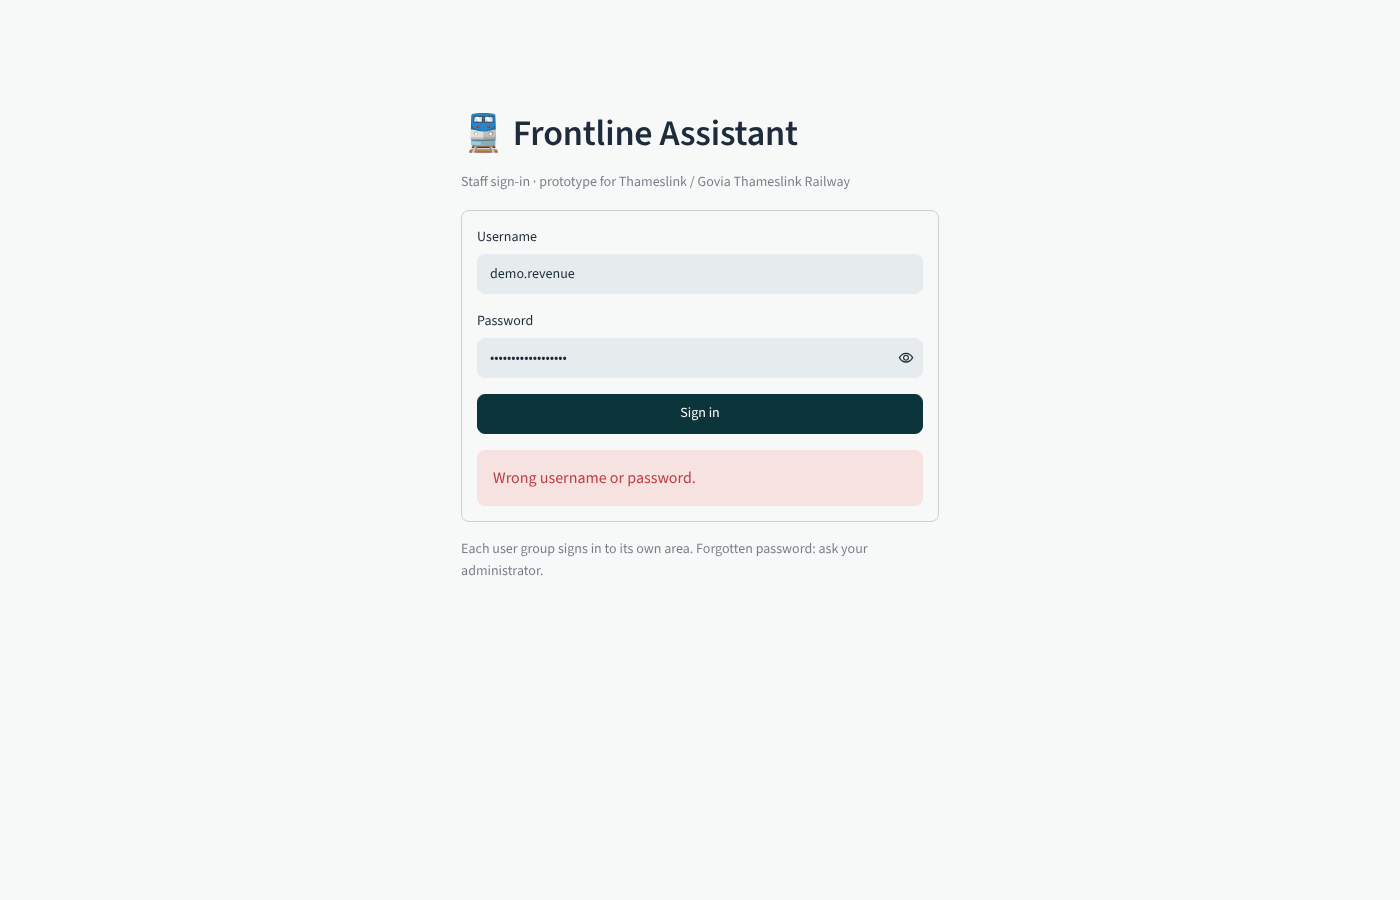
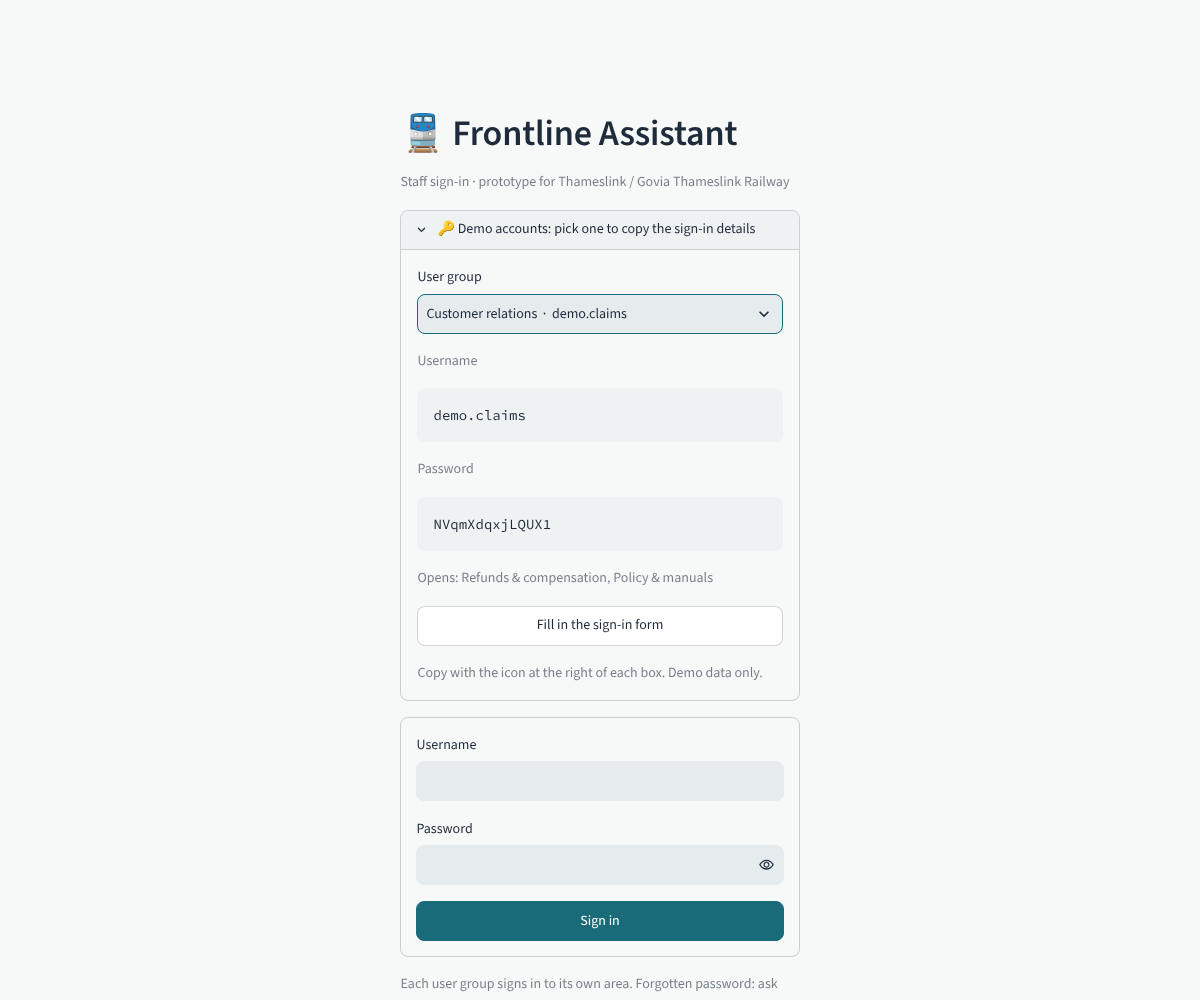
Add demo accounts dropdown to the sign-in page
- Sign-in page lists the demo accounts in a dropdown with copyable username
  and password, plus a button that fills in the sign-in form
- python -m rag.auth demo saves demo passwords to demo_credentials.json
  (gitignored); --reset gives the demo accounts new passwords
- Demo passwords can't be changed from the app; an admin reset or disabling
  an account removes it from the list; DEMO_LOGINS=0 hides the list
- scripts/download_documents.py fetches the four public PDFs
- 4 new tests (45 in total)

Claude-Session: https://claude.ai/code/session_01NtGLW7WCbcBZ2Sm6Mgj36T

diff --git a/rag/auth.py b/rag/auth.py
@@ -9,7 +9,8 @@ Accounts live in data/users.json on the server. Create them from the command lin
 
     python -m rag.auth create-admin itlead
     python -m rag.auth add jsmith --role revenue --name "Jo Smith"
-    python -m rag.auth demo            # one account per role, random passwords printed once
+    python -m rag.auth demo            # one account per role; passwords shown on the sign-in page
+    python -m rag.auth demo --reset    # new passwords for the existing demo accounts
     python -m rag.auth list
 
 For production, the README describes connecting to Thameslink's single sign-on instead.
@@ -35,6 +36,9 @@ from . import config
 
 USERS_FILE = config.STATE_DIR / "users.json"
 AUDIT_FILE = config.STATE_DIR / "audit.jsonl"
+# Plain-text passwords of the DEMO accounts only, so the sign-in page can list them for testers.
+# Never committed (see .gitignore). Delete this file, or set DEMO_LOGINS=0, to hide the list.
+DEMO_FILE = config.STATE_DIR / "demo_credentials.json"
 
 MAX_FAILS = 5
 LOCK_SECONDS = 15 * 60
@@ -193,6 +197,8 @@ def authenticate(username: str, password: str) -> User:
 
 
 def change_password(username: str, old: str, new: str) -> None:
+    if is_demo(username):
+        raise AuthError("Demo accounts are shared, so their password can't be changed here.")
     with _lock:
         users = load_users()
         user = users[username]
@@ -243,6 +249,7 @@ def reset_password(username: str, by: str = "") -> str:
         user.salt, user.pw_hash = hash_password(password)
         user.must_change, user.fails, user.locked_until = True, 0, 0.0
         save_users(users)
+    forget_demo(username)
     audit("password_reset", username, by=by)
     return password
 
@@ -276,6 +283,86 @@ def get_user(username: str) -> User | None:
     return load_users().get(username)
 
 
+# ---------------------------------------------------------------- demo accounts
+def demo_logins() -> list[dict]:
+    """Demo accounts to list on the sign-in page: [{username, password, role, name}], active ones only."""
+    if os.getenv("DEMO_LOGINS", "1").strip().lower() in ("0", "false", "no", "off") or not DEMO_FILE.exists():
+        return []
+    try:
+        saved = json.loads(DEMO_FILE.read_text(encoding="utf-8"))
+    except (OSError, ValueError):
+        return []
+    users = load_users()
+    out = []
+    for username, password in saved.items():
+        u = users.get(username)
+        if u and u.active:
+            out.append({"username": username, "password": password, "role": u.role, "name": ROLES[u.role]["name"]})
+    order = list(ROLES)
+    return sorted(out, key=lambda d: order.index(d["role"]) if d["role"] in order else 99)
+
+
+def _save_demo(saved: dict[str, str]) -> None:
+    DEMO_FILE.parent.mkdir(parents=True, exist_ok=True)
+    if not saved:
+        DEMO_FILE.unlink(missing_ok=True)
+        return
+    tmp = DEMO_FILE.with_suffix(".tmp")
+    tmp.write_text(json.dumps(saved, indent=1), encoding="utf-8")
+    os.replace(tmp, DEMO_FILE)
+    try:
+        os.chmod(DEMO_FILE, 0o600)
+    except OSError:
+        pass
+
+
+def _load_demo() -> dict[str, str]:
+    try:
+        return json.loads(DEMO_FILE.read_text(encoding="utf-8")) if DEMO_FILE.exists() else {}
+    except (OSError, ValueError):
+        return {}
+
+
+def is_demo(username: str) -> bool:
+    return username in _load_demo()
+
+
+def forget_demo(username: str) -> None:
+    """Stop listing an account on the sign-in page (its password is no longer the published one)."""
+    with _lock:
+        saved = _load_demo()
+        if saved.pop(username, None) is not None:
+            _save_demo(saved)
+
+
+def create_demo_accounts(reset: bool = False) -> list[tuple[str, str, str]]:
+    """One demo account per role. Returns (username, password or '', status) per role."""
+    results = []
+    with _lock:
+        saved = _load_demo()
+        for role, info in ROLES.items():
+            username = f"demo.{role}"
+            if username in load_users():
+                if not reset:
+                    results.append((username, saved.get(username, ""), "exists"))
+                    continue
+                pw = generate_password()
+                users = load_users()
+                u = users[username]
+                u.salt, u.pw_hash = hash_password(pw)
+                u.must_change, u.fails, u.locked_until, u.active = False, 0, 0.0, True
+                save_users(users)
+                audit("password_reset", username, by="cli", detail="demo")
+                status = "new password"
+            else:
+                pw = create_user(username, f"Demo {info['name']}", role, by="cli", must_change=False)
+                status = "created"
+            saved[username] = pw
+            results.append((username, pw, status))
+        _save_demo(saved)
+    return results
+
+
 # ---------------------------------------------------------------- command line
 def main(argv=None):
     ap = argparse.ArgumentParser(prog="python -m rag.auth", description="Manage Frontline Assistant accounts.")
@@ -290,7 +377,8 @@ def main(argv=None):
     p = sub.add_parser("reset", help="give a user a new temporary password")
     p.add_argument("username")
     sub.add_parser("list", help="list accounts")
-    sub.add_parser("demo", help="create one demo account per role (random passwords, printed once)")
+    p = sub.add_parser("demo", help="create one demo account per role (passwords listed on the sign-in page)")
+    p.add_argument("--reset", action="store_true", help="give the existing demo accounts new passwords")
     args = ap.parse_args(argv)
 
     try:
@@ -311,15 +399,12 @@ def main(argv=None):
                 print(f"{u.username:<16} {ROLES[u.role]['name']:<20} {'active' if u.active else 'DISABLED':<9}"
                       f" last sign-in: {u.last_login or '—'}")
         elif args.cmd == "demo":
-            print("Demo accounts (passwords are shown only now — note them down):\n")
-            for role, info in ROLES.items():
-                username = f"demo.{role}"
-                if username in load_users():
-                    print(f"  {username:<16} already exists (use 'reset' for a new password)")
-                    continue
-                pw = create_user(username, f"Demo {info['name']}", role, by="cli", must_change=False)
-                print(f"  {username:<16} {pw}   {info['name']}")
-            print("\nDelete or disable demo accounts before real use.")
+            print("Demo accounts:\n")
+            for username, pw, status in create_demo_accounts(reset=args.reset):
+                shown = pw or "(password not saved: run with --reset)"
+                print(f"  {username:<16} {shown:<16} {status}")
+            print(f"\nThe sign-in page lists these accounts (saved in {DEMO_FILE}).\n"
+                  "Hide the list with DEMO_LOGINS=0 or by deleting that file. Remove demo accounts before real use.")
     except (AuthError, KeyError) as e:
         sys.exit(f"Error: {e}")
 

diff --git a/scripts/download_documents.py b/scripts/download_documents.py
@@ -1,0 +1,70 @@
+"""Download the four public source documents into data/raw/.
+
+The PDFs are published by Govia Thameslink Railway and Rail Settlement Plan. They are not
+redistributed in this repository, so fetch them from the publishers' websites:
+
+    python scripts/download_documents.py
+    python -m rag.ingest
+
+If a publisher has replaced a document with a newer version, the script still saves it but
+warns you. Then run the tests (python -m pytest -q): the app checks every rule's quoted
+source text against the documents and shows which rules need updating.
+"""
+from __future__ import annotations
+
+import hashlib
+import sys
+import urllib.request
+from pathlib import Path
+
+RAW = Path(__file__).resolve().parent.parent / "data" / "raw"
+GTR = "https://www.thameslinkrailway.com/-/media/gtr/files/accessibility/atp-accessibility-documents"
+
+# file name (as in data/documents.yaml) -> (URL, SHA-256 of the version this project was built and tested with)
+DOCUMENTS = {
+    "National_Rail_Conditions_of_Travel_2025.pdf": (
+        "https://www.southeasternrailway.co.uk/-/media/goahead/southeastern/documents/policies/"
[4 lines of base64/hex data omitted]
+}
+
+
+def fetch(url: str) -> bytes:
+    req = urllib.request.Request(url, headers={"User-Agent": "Mozilla/5.0 (document downloader)"})
+    with urllib.request.urlopen(req, timeout=60) as resp:
+        return resp.read()
+
+
+def main() -> int:
+    RAW.mkdir(parents=True, exist_ok=True)
+    problems = 0
+    for name, (url, expected) in DOCUMENTS.items():
+        target = RAW / name
+        if target.exists() and "--force" not in sys.argv:
+            print(f"  ok        {name} (already downloaded; use --force to fetch again)")
+            continue
+        try:
+            data = fetch(url)
+        except Exception as e:                      # network error, 404, ...
+            print(f"  FAILED    {name}: {e}\n            Download it by hand from {url}\n"
+                  f"            and save it as data/raw/{name}")
+            problems += 1
+            continue
+        if not data.startswith(b"%PDF"):
+            print(f"  FAILED    {name}: the server did not return a PDF. Download it by hand from {url}")
+            problems += 1
+            continue
+        target.write_bytes(data)
+        digest = hashlib.sha256(data).hexdigest()
+        if digest == expected:
+            print(f"  ok        {name}")
+        else:
+            print(f"  NEWER?    {name}: differs from the tested version. Run the tests to check the rules.")
+    print("\nNext: python -m rag.ingest" if not problems else f"\n{problems} document(s) missing (see above).")
+    return 1 if problems else 0
+
+
+if __name__ == "__main__":
+    sys.exit(main())

diff --git a/tests/test_auth.py b/tests/test_auth.py
@@ -15,6 +15,8 @@ from rag.usecases import BY_ID  # noqa: E402
 def isolated(tmp_path, monkeypatch):
     monkeypatch.setattr(auth, "USERS_FILE", tmp_path / "users.json")
     monkeypatch.setattr(auth, "AUDIT_FILE", tmp_path / "audit.jsonl")
+    monkeypatch.setattr(auth, "DEMO_FILE", tmp_path / "demo_credentials.json")
+    monkeypatch.delenv("DEMO_LOGINS", raising=False)
 
 
 def test_password_is_not_stored_in_plain_text(tmp_path):
@@ -89,3 +91,40 @@ def test_audit_log_has_no_passwords():
     text = auth.AUDIT_FILE.read_text()
     assert "river-stone-77" not in text and "typo-stone-77" not in text
     assert [e["event"] for e in auth.read_audit()][:2] == ["login_failed", "login"]
+
+
+def test_demo_accounts_listed_and_usable():
+    assert auth.demo_logins() == []                    # nothing listed until demo accounts exist
+    created = auth.create_demo_accounts()
+    assert len(created) == len(auth.ROLES)
+    listed = auth.demo_logins()
+    assert [d["role"] for d in listed] == list(auth.ROLES)
+    for d in listed:
+        assert auth.authenticate(d["username"], d["password"]).role == d["role"]
+    assert "pw_hash" not in auth.DEMO_FILE.read_text()
+
+
+def test_demo_list_hidden_by_env(monkeypatch):
+    auth.create_demo_accounts()
+    monkeypatch.setenv("DEMO_LOGINS", "0")
+    assert auth.demo_logins() == []
+
+
+def test_demo_reset_gives_new_working_passwords():
+    first = {u: pw for u, pw, _ in auth.create_demo_accounts()}
+    again = auth.create_demo_accounts()                 # without --reset: unchanged
+    assert all(status == "exists" and first[u] == pw for u, pw, status in again)
+    second = {u: pw for u, pw, _ in auth.create_demo_accounts(reset=True)}
+    assert all(first[u] != second[u] for u in first)
+    assert auth.authenticate("demo.claims", second["demo.claims"]).role == "claims"
+
+
+def test_demo_password_cannot_be_changed_and_reset_or_disable_unlists():
+    auth.create_demo_accounts()
+    pw = {d["username"]: d["password"] for d in auth.demo_logins()}
+    with pytest.raises(auth.AuthError, match="Demo accounts"):
+        auth.change_password("demo.revenue", pw["demo.revenue"], "a-new-pass-123")
+    auth.reset_password("demo.revenue", by="demo.admin")
+    auth.update_user("demo.assist", by="demo.admin", active=False)
+    names = {d["username"] for d in auth.demo_logins()}
+    assert "demo.revenue" not in names and "demo.assist" not in names and "demo.claims" in names

diff --git a/app.py b/app.py
@@ -74,6 +74,27 @@ def sign_out(reason: str = ""):
         st.session_state["signout_reason"] = reason
 
 
+def demo_accounts_box():
+    """Dropdown of the demo accounts with copyable username and password (only if demo accounts exist)."""
+    demos = auth.demo_logins()
+    if not demos:
+        return
+    with st.expander("🔑 Demo accounts: pick one to copy the sign-in details"):
+        labels = {f"{d['name']}  ·  {d['username']}": d for d in demos}
+        pick = labels[st.selectbox("User group", list(labels), key="demo_pick")]
+        st.caption("Username")
+        st.code(pick["username"], language=None)
+        st.caption("Password")
+        st.code(pick["password"], language=None)
+        st.caption(f"Opens: {', '.join(BY_ID[u].short for u in auth.ROLES[pick['role']]['use_cases'])}"
+                   + (" and the administration area" if auth.ROLES[pick['role']].get('admin') else ""))
+        if st.button("Fill in the sign-in form", use_container_width=True):
+            st.session_state["login_username"] = pick["username"]
+            st.session_state["login_password"] = pick["password"]
+            st.rerun()
+        st.caption("Copy with the icon at the right of each box. Demo data only.")
+
+
 def login_page():
     _, mid, _ = st.columns([1, 1.3, 1])
     with mid:
@@ -85,9 +106,11 @@ def login_page():
         if not auth.load_users():
             st.warning("No accounts exist yet. IT creates the first administrator on the server with:  \n"
                        "`python -m rag.auth create-admin <username>`")
+        demo_accounts_box()
         with st.form("login"):
-            username = st.text_input("Username", autocomplete="username")
-            password = st.text_input("Password", type="password", autocomplete="current-password")
+            username = st.text_input("Username", autocomplete="username", key="login_username")
+            password = st.text_input("Password", type="password", autocomplete="current-password",
+                                     key="login_password")
             if st.form_submit_button("Sign in", type="primary", use_container_width=True):
                 try:
                     user = auth.authenticate(username, password)

diff --git a/tests/conftest.py b/tests/conftest.py
@@ -1,0 +1,17 @@
+"""Skip the document-based tests when the source PDFs have not been downloaded yet."""
+from pathlib import Path
+
+import pytest
+
+RAW = Path(__file__).resolve().parent.parent / "data" / "raw"
+NEEDED = ["National_Rail_Conditions_of_Travel_2025.pdf", "Accessible_Travel_Policy.pdf", "Making_Rail_Accessible.pdf"]
+
+
+def pytest_collection_modifyitems(config, items):
+    missing = [f for f in NEEDED if not (RAW / f).exists()]
+    if not missing:
+        return
+    skip = pytest.mark.skip(reason="source documents missing: run  python scripts/download_documents.py  first")
+    for item in items:
+        if item.fspath.basename in ("test_pipeline.py", "test_usecases.py"):
+            item.add_marker(skip)

diff --git a/rag/retrieve.py b/rag/retrieve.py
@@ -70,7 +70,8 @@ class Retriever:
     def load(cls) -> "Retriever":
         path = config.INDEX_DIR / "chunks.jsonl"
         if not path.exists():
-            raise FileNotFoundError("No index found. Run:  python -m rag.ingest")
+            raise FileNotFoundError("No search index found. Download the documents and build the index first:  "
+                                    "python scripts/download_documents.py  then  python -m rag.ingest")
         chunks = [json.loads(line) for line in open(path, encoding="utf-8")]
         emb, model = None, None
         epath, mpath = config.INDEX_DIR / "embeddings.npy", config.INDEX_DIR / "embeddings.json"

diff --git a/README.md b/README.md
@@ -98,9 +98,15 @@ python -m venv .venv
 pip install -r requirements.txt
 
 python -m rag.ingest          # read the PDFs and build the search index (~15 s)
-python -m rag.auth demo       # one demo account per user group; passwords are printed once
-streamlit run app.py          # opens http://localhost:8501 — sign in with a demo account
+python -m rag.auth demo       # one demo account per user group
+python -m streamlit run app.py   # opens http://localhost:8501
 ```
+
+The sign-in page has a **Demo accounts** dropdown: pick a user group to see its username and password (with copy buttons), or click **Fill in the sign-in form**. Demo passwords can't be changed from the app, so a shared demo keeps working.
+
+- New demo passwords: `python -m rag.auth demo --reset`
+- Hide the dropdown: set `DEMO_LOGINS=0`, or delete `demo_credentials.json` from the data/state folder
+- If you publish the app online, anyone can use the listed accounts, including `demo.admin` (which can manage users). Disable that account in the admin area if you don't want visitors to have it. Before any real use, remove all demo accounts.
 
 Without a language model the app runs in **"quote documents only"** mode: it finds the right passages and shows the most relevant sentences with citations. This is also the search-only baseline for the evaluation.
 
@@ -163,7 +169,7 @@ You can also use the terminal: `python -m rag.cli "Can a passenger take a bicycl
 | Sign-in | `rag/auth.py` | Accounts, roles, password hashing, lockout, audit log; command line for account management. |
 | Interface | `app.py` | Streamlit web app: sign-in, one area per role, the advisors, chat with sources, 👍/👎 feedback, and the Administration area (users, activity, feedback, saved cases, system status). |
 | Evaluation | `eval/` | 32 test questions with expected sources and answer facts; computes the metrics below. |
-| Tests | `tests/` | 41 automated tests (`python -m pytest -q`): ingestion, search, every advisor rule and its citation, each use case's scope and example questions, the case log, sign-in (hashing, lockout, roles, audit log), and a **fake Ollama server** (`tests/mock_ollama.py`) that exercises the full LLM path without downloading a model. |
+| Tests | `tests/` | 45 automated tests (`python -m pytest -q`): ingestion, search, every advisor rule and its citation, each use case's scope and example questions, the case log, sign-in (hashing, lockout, roles, audit log), and a **fake Ollama server** (`tests/mock_ollama.py`) that exercises the full LLM path without downloading a model. |
 
 To add a document: put the PDF in `data/raw/`, add an entry to `data/documents.yaml`, run `python -m rag.ingest` (add `--embed` if using Ollama).
 
